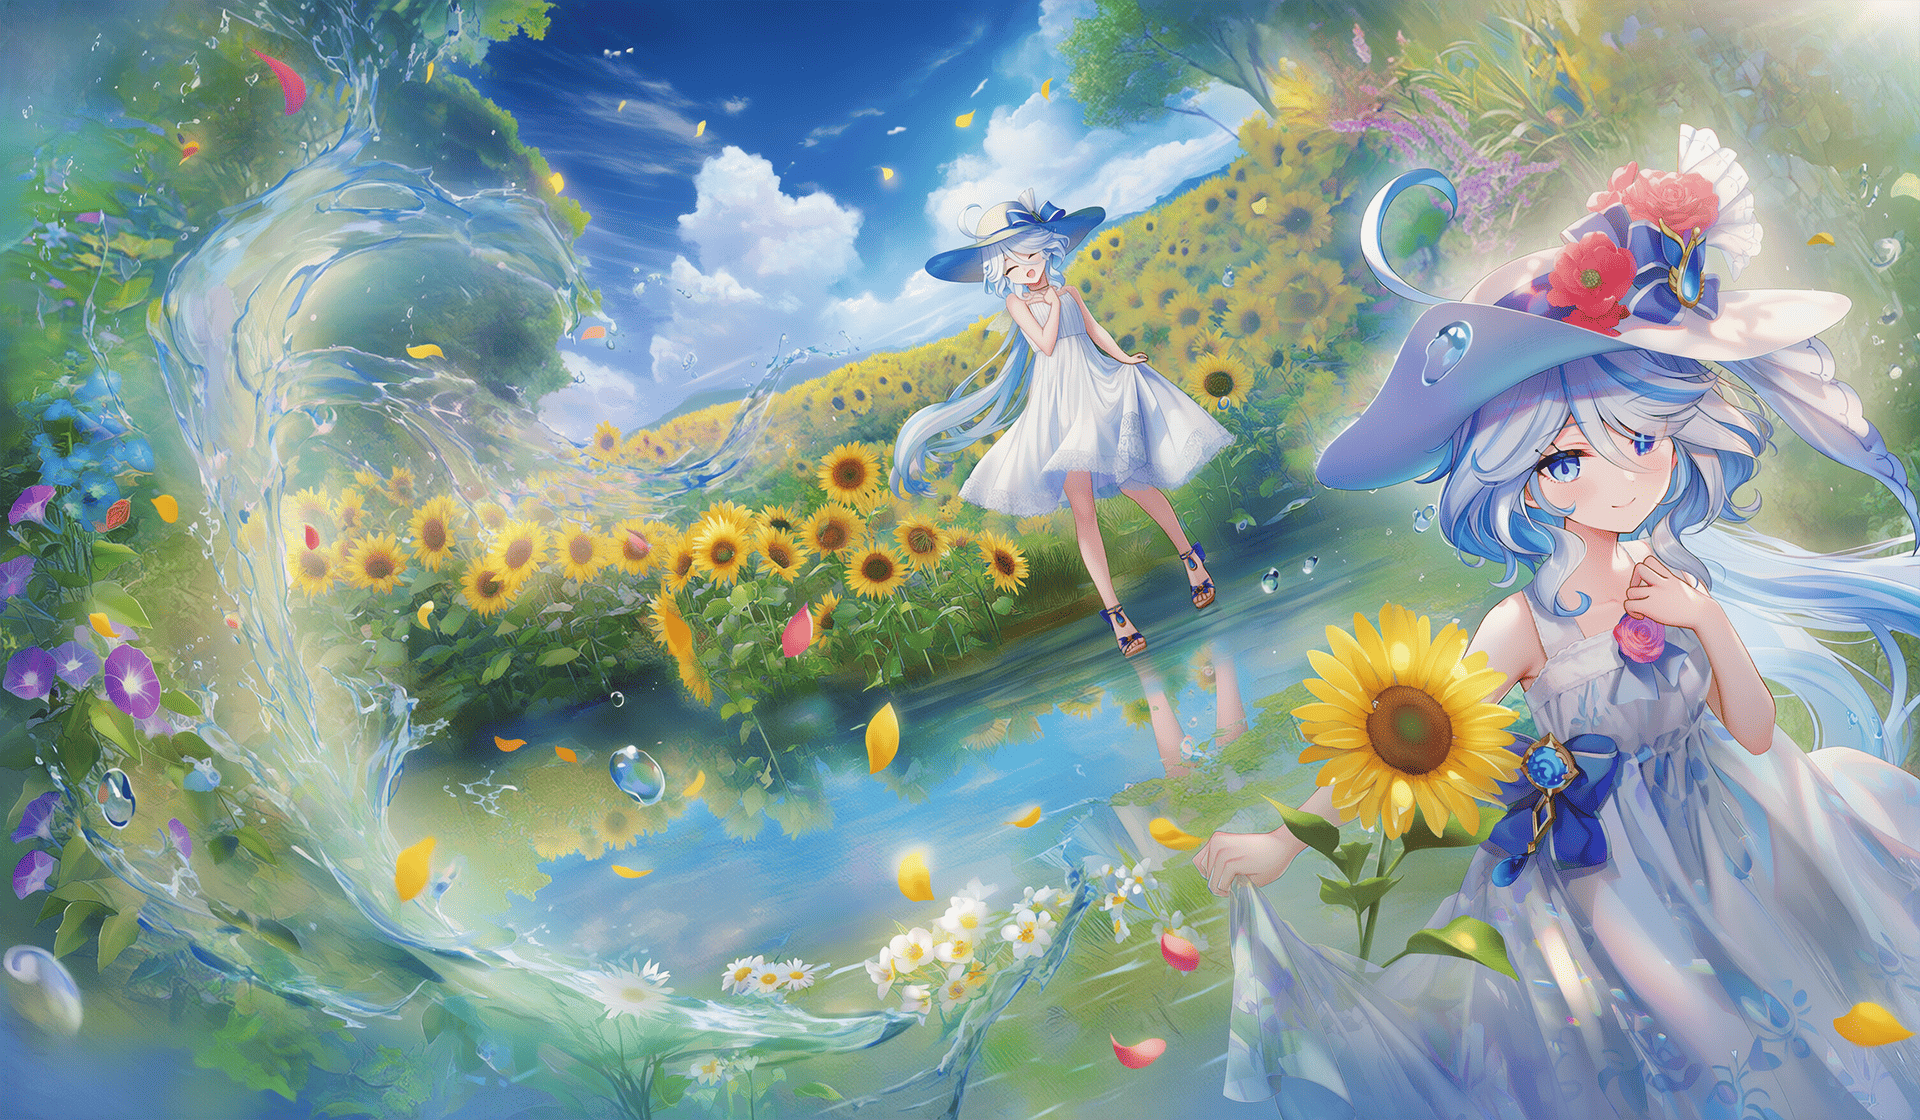
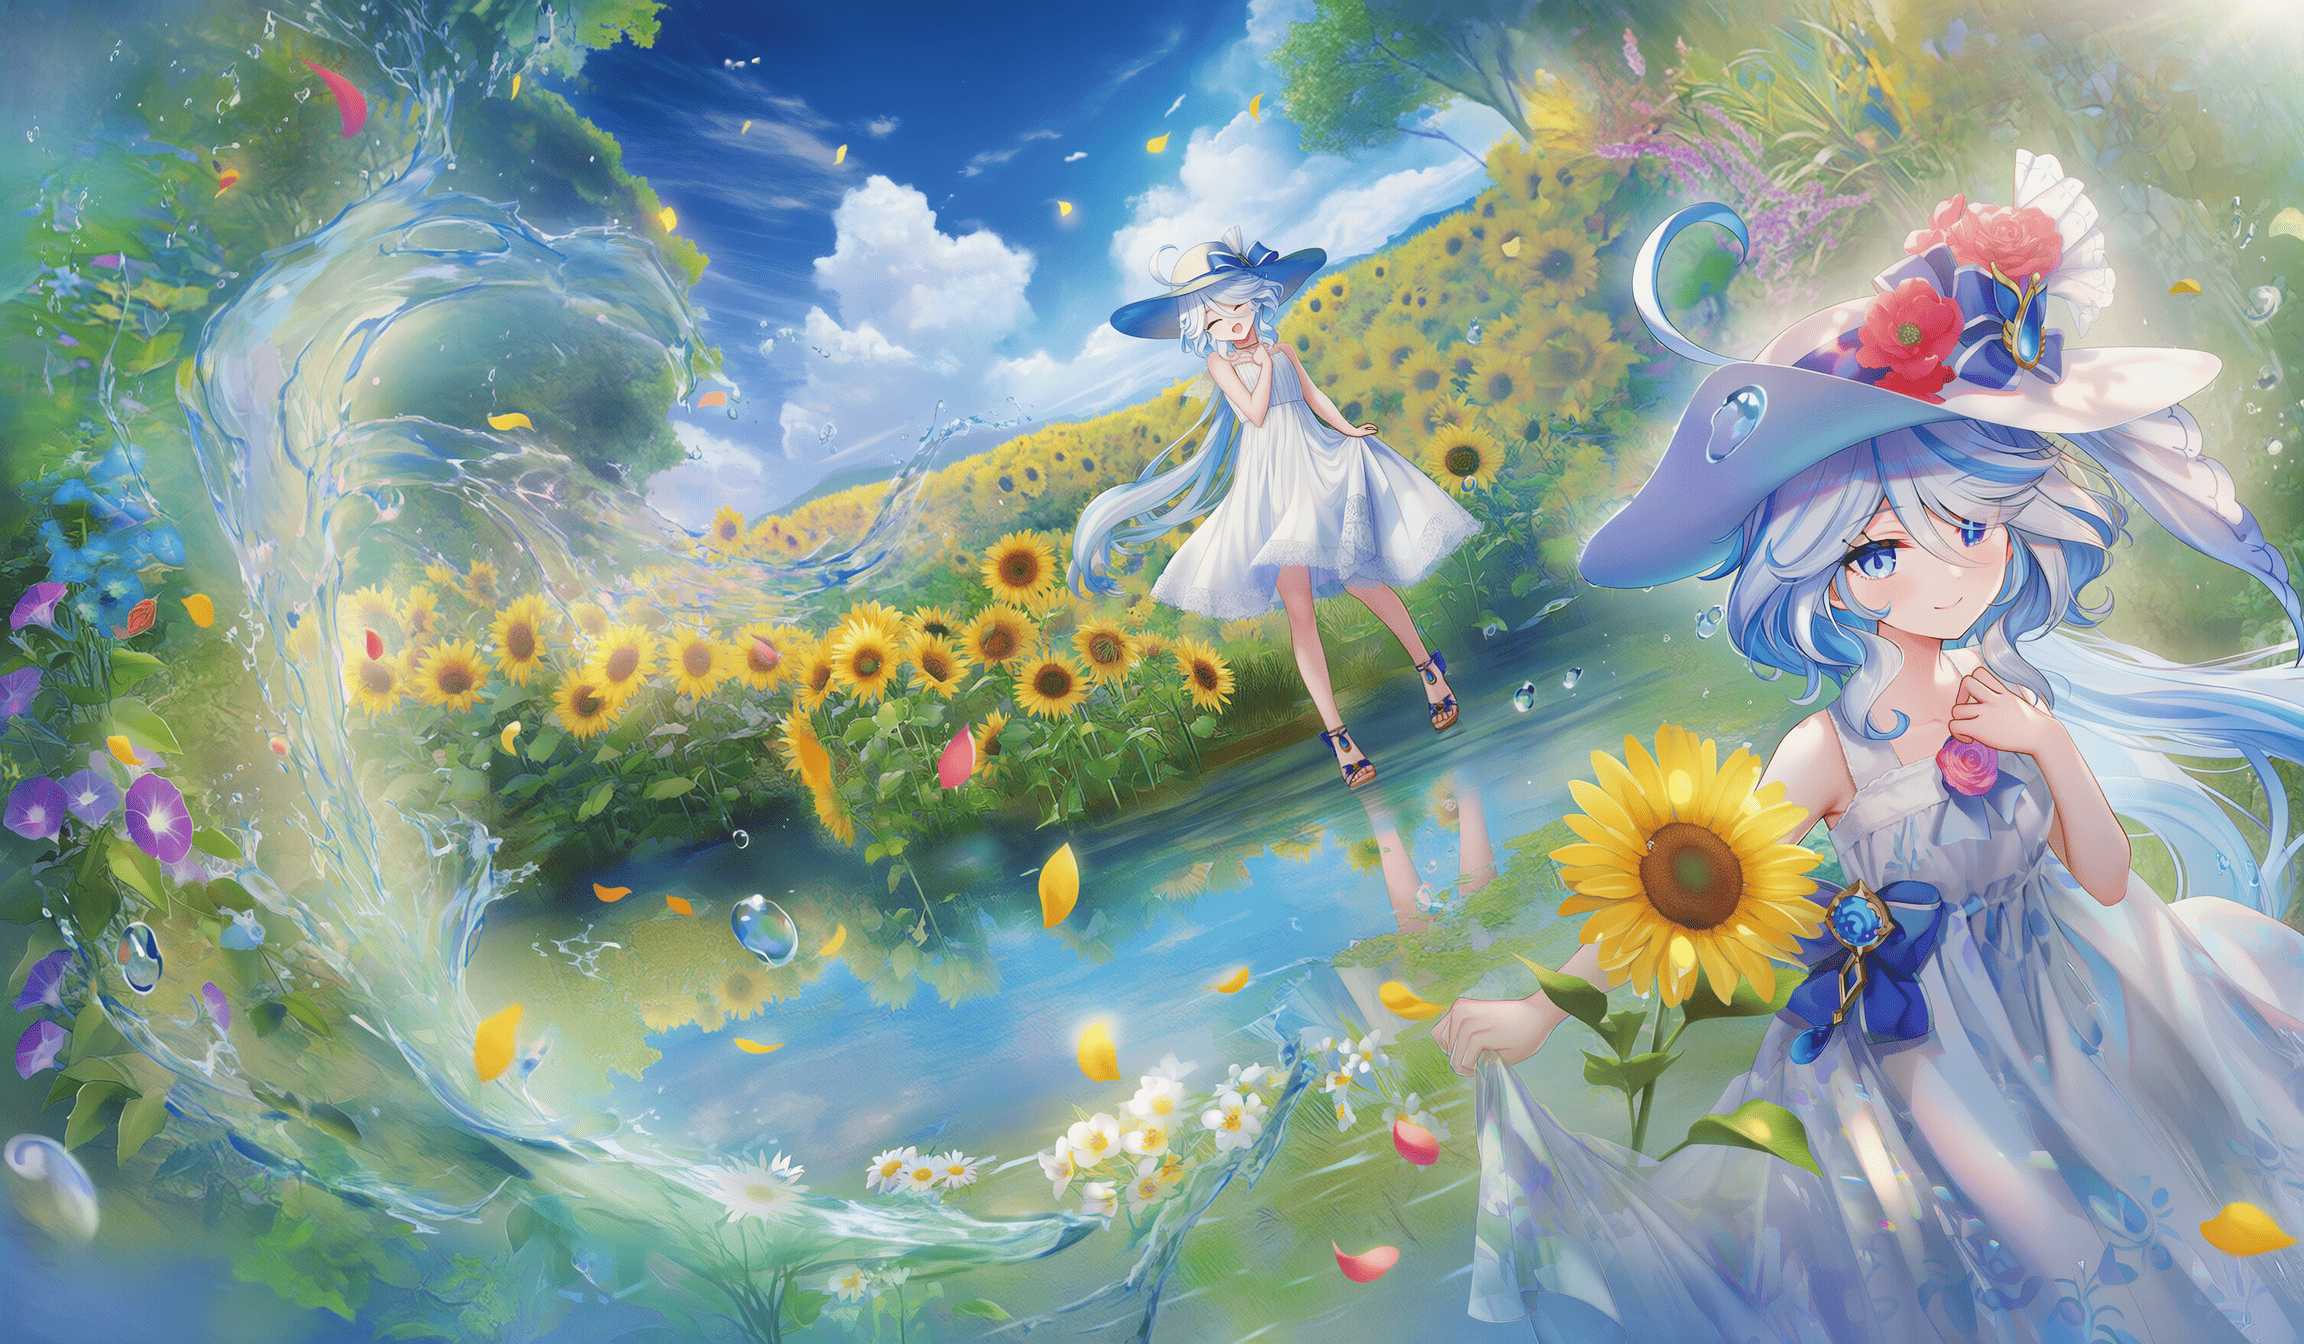
清理主页面布局；图片分辨率修复

diff --git a/src/components/MainArea.vue b/src/components/MainArea.vue
@@ -14,14 +14,11 @@
         <div class="display-controls">
           <div class="switch-item">
             <span class="switch-label">邮戳</span>
-            <el-switch v-model="showAvatar" class="show-in-pc" />
-            <el-switch size="small" v-model="showAvatar" class="show-in-media" />
+            <el-switch v-model="showAvatar"/>
           </div>
           <div class="switch-item">
             <span class="switch-label">弹幕</span>
-            <el-switch v-model="showDanmaku" @change="handleDanmakuVisibilityChange" class="show-in-pc" />
-            <el-switch size="small" v-model="showDanmaku" @change="handleDanmakuVisibilityChange"
-              class="show-in-media" />
+            <el-switch v-model="showDanmaku" @change="handleDanmakuVisibilityChange" />
           </div>
         </div>
       </div>
@@ -37,14 +34,13 @@
     <!-- 内容区域 - 包含头像和弹幕 -->
     <div class="content-area">
       <!-- 背景图片轮播 - 覆盖整个content-area -->
-        <el-carousel :trigger="windowWidth <= 768 ? 'click' : 'hover'"
-          :arrow="selectedTieba?.backgroundImages?.length > 1 ? 'always' : 'never'" height="100%" :autoplay="false"
-          indicator-position="none" :touch="true" @change="handleCarouselChange">
-          <el-carousel-item v-for="(image, index) in selectedTieba.backgroundImages" indicator-position="none"
-            :key="index">
-            <img :src="image" alt="" class="carousel-image" />
-          </el-carousel-item>
-        </el-carousel>
+      <el-carousel arrow="never" height="100%" :autoplay="false"
+        indicator-position="none" @change="handleCarouselChange">
+        <el-carousel-item v-for="(image, index) in selectedTieba.backgroundImages"
+          :key="index">
+          <img :src="image" alt="" class="carousel-image" />
+        </el-carousel-item>
+      </el-carousel>
       <div class="main-title" @click="goToTieba" v-if="showAvatar" :style="avatarPositionStyle">
         <div class="text-content" :style="textContentStyle">
           <h1>{{ selectedTieba?.name || '加载中...' }}</h1>
@@ -68,6 +64,21 @@
             </span>
           </template>
         </VueDanmaku>
+      </div>
+      <div class="bottom-controls">
+      <div class="left-controls">
+          <!-- 显示控制 -->
+        <div class="display-controls">
+          <div class="switch-item">
+            <span class="switch-label">邮戳</span>
+            <el-switch v-model="showAvatar"/>
+          </div>
+          <div class="switch-item">
+            <span class="switch-label">弹幕</span>
+            <el-switch v-model="showDanmaku" @change="handleDanmakuVisibilityChange" />
+          </div>
+        </div>
+        </div>
       </div>
     </div>
   </div>
@@ -677,27 +688,17 @@ function goToTieba() {
 
 </script>
 <style scoped>
-/* 主体区域 */
+
 .main-area {
-  position: relative;
-  width: 100%;
-  overflow: hidden;
-  transition: transform 0.2s ease, box-shadow 0.2s ease;
-  box-sizing: border-box;
+  padding: 0 2%;
   display: flex;
   flex-direction: column;
-  margin-bottom: 10px;
 }
 
 .content-area {
-  flex: 1;
-  margin-top: 18px;
   position: relative;
   width: 100%;
-  height: 100%;
-  aspect-ratio: 16 / 9;
-  overflow: hidden;
-
+  aspect-ratio: 12 / 7;
 }
 
 .background-content {
@@ -741,31 +742,6 @@ function goToTieba() {
   bottom: -10px;
   z-index: 1;
   pointer-events: auto;
-}
-
-/* 隐藏默认箭头图标 */
-:deep(.el-carousel__arrow i) {
-  display: none !important;
-}
-
-/* 使用伪元素添加图片 */
-:deep(.el-carousel__arrow--left)::before,
-:deep(.el-carousel__arrow--right)::before {
-  content: '';
-  display: block;
-  width: 100%;
-  height: 100%;
-  background-size: contain;
-  background-repeat: no-repeat;
-  opacity: 0.57;
-}
-
-:deep(.el-carousel__arrow--left)::before {
-  background-image: url("/assets/backgrounds/left-arrow.png");
-}
-
-:deep(.el-carousel__arrow--right)::before {
-  background-image: url("/assets/backgrounds/right-arrow.png");
 }
 
 .text-content {
@@ -849,9 +825,9 @@ function goToTieba() {
 }
 
 /* 隐藏默认图标 */
-:deep(.el-carousel__arrow i) {
+/* :deep(.el-carousel__arrow i) {
   display: inline;
-}
+} */
 
 /* 弹幕文字样式 - 使用每条弹幕的动态颜色与阴影 */
 :deep(.danmaku-container *) {
@@ -865,8 +841,6 @@ function goToTieba() {
   display: flex;
   align-items: center;
   justify-content: space-between;
-  padding: 0 95px;
-  /* border-radius: 10px; */
   overflow: visible;
   flex-wrap: wrap;
 }
@@ -874,10 +848,6 @@ function goToTieba() {
 .left-controls {
   display: flex;
   gap: 16px;
-}
-
-::v-deep(.el-carousel__arrow svg) {
-  stroke-width: 3;
 }
 
 /* 贴吧选择器样式 */
@@ -927,9 +897,7 @@ function goToTieba() {
 }
 .carousel-image {
   width: 100%;
-  height: auto;
   object-fit: cover;
-  border-radius: 16px;
 }
 
 /* 确保轮播图箭头相对于content-area定位 */
@@ -939,15 +907,6 @@ function goToTieba() {
   bottom: 0;
   left: 0;
   right: 0;
-}
-
-:deep(.el-carousel__arrow) {
-  background: #30b5ee;
-}
-
-:deep(.el-carousel--horizontal,
-  .el-carousel--vertical) {
-  padding: 0 75px;
 }
 
 /* 显示控制样式 */
@@ -1029,26 +988,7 @@ function goToTieba() {
     --main3-title-margin: -26px;
     --main4-title-margin: 282px;
   }
-
-  /* 移动端轮播图箭头样式 - 显示但优化样式 */
-  :deep(.el-carousel__arrow) {
-    display: flex !important;
-    width: 32px;
-    height: 32px;
-    background: rgba(48, 181, 238, 0.8);
-    border-radius: 50%;
-    backdrop-filter: blur(4px);
-  }
   
-  /* 确保箭头在移动端更容易点击且位置合适 */
-  :deep(.el-carousel__arrow--left) {
-    left: 16px;
-  }
-  
-  :deep(.el-carousel__arrow--right) {
-    right: 16px;
-  }
-
   .bottom-controls {
     padding: 0;
   }
@@ -1147,24 +1087,6 @@ function goToTieba() {
 }
 
 @media (max-width: 480px) {
-  /* 小屏幕轮播图箭头样式 - 稍微小一些 */
-  :deep(.el-carousel__arrow) {
-    display: flex !important;
-    width: 28px;
-    height: 28px;
-    background: rgba(48, 181, 238, 0.9);
-    border-radius: 50%;
-    backdrop-filter: blur(4px);
-  }
-  
-  :deep(.el-carousel__arrow--left) {
-    left: 12px;
-  }
-  
-  :deep(.el-carousel__arrow--right) {
-    right: 12px;
-  }
-
   .bottom-controls {
     padding: 0;
   }
@@ -1180,7 +1102,7 @@ function goToTieba() {
 
   .carousel-image {
     border-radius: 4px;
-    aspect-ratio: 16 / 7;
+    aspect-ratio: 12 / 7;
     object-fit: cover;
   }
 

diff --git a/src/App.vue b/src/App.vue
@@ -310,22 +310,14 @@ body {
   100% { transform: rotate(360deg); }
 }
 @media (max-width: 768px) {
-  .container {
-    padding: 0 16px;
-  }
-
   .message-title {
-    padding: 0 0 20px 0;
+    padding-bottom: 30px;
   }
 }
 
 @media (max-width: 480px) {
-  .container {
-    padding: 0 16px;
-  }
-
   .message-title {
-    padding: 0 0 20px 0;
+    padding-bottom: 15px;
   }
 }
 </style>